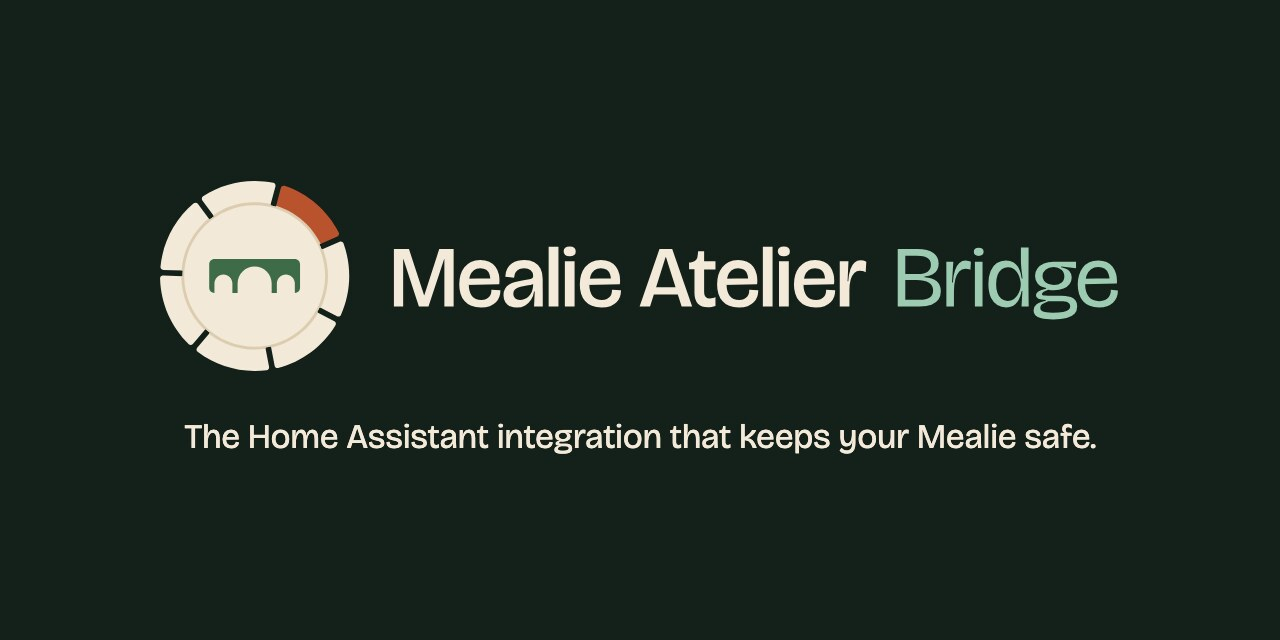
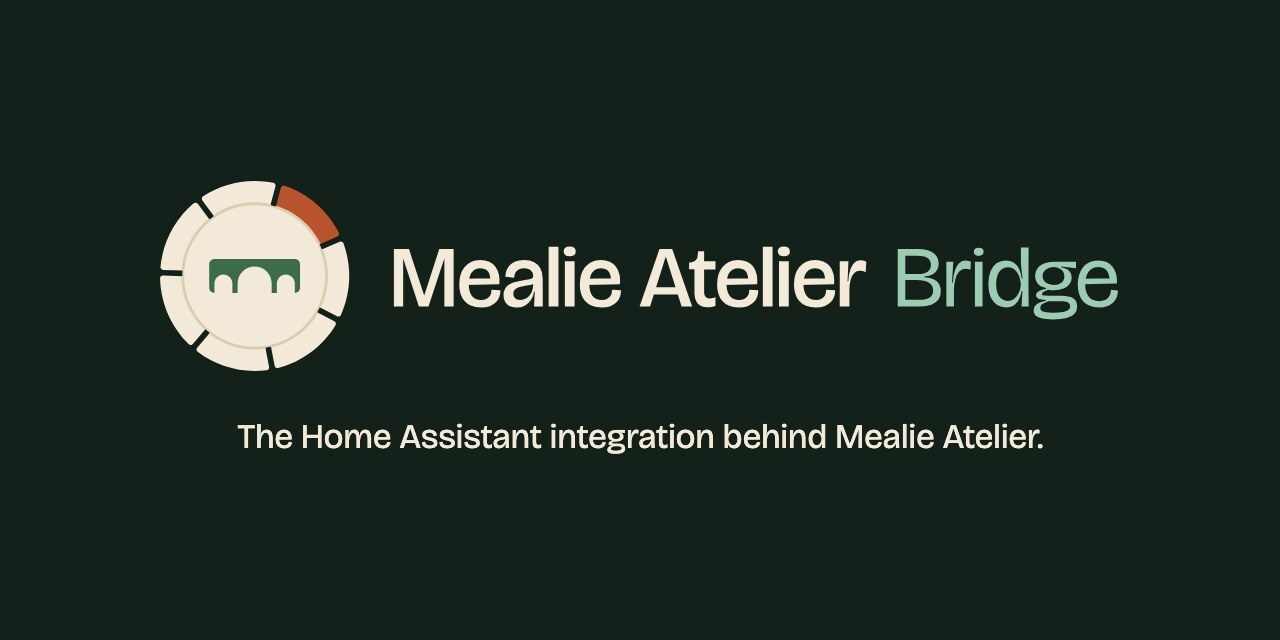
Fix brand docs paths and make the Chrome path overridable
Detect Chrome via CHROME, the macOS app, then google-chrome or chromium on PATH,
and fail early with a clear message. Use published file names in the README,
point the generated manifest at README.md, correct stale comments, and use the
shared Bridge tagline in the social preview.

Changed region(s): [[0.125, 0.6562, 0.8438, 0.7188]]

diff --git a/brand/source/files.py b/brand/source/files.py
@@ -113,7 +113,7 @@ for name in sorted(os.listdir(os.path.join(OUT, "svg"))):
 lines = [
     "# Week Dial · files",
     "",
-    "Generated by `make.sh` (do not edit by hand; rebuild instead). Colours, clear space and rules: `../BRAND.md`.",
+    "Generated by `make.sh` (do not edit by hand; rebuild instead). Colours, clear space and rules: `../README.md`.",
     "Family prefixes: none = Mealie Atelier main mark, `cards-`, `bridge-`, `webapp-`. For the Home Assistant",
     "brands repository, copy a family's eight brand files into the domain folder and drop the prefix.",
     "",

diff --git a/brand/README.md b/brand/README.md
@@ -50,23 +50,23 @@ SVG files are in `svg/`, PNG and ICO files in `png/`.
 | GitHub org avatar | `mealie-atelier-avatar-500.png` (full bleed, survives the circular crop) |
 | Repository social preview | `social/mealie-atelier-social-preview.png`, `social/mealie-atelier-cards-social-preview.png`, `social/mealie-atelier-bridge-social-preview.png` (and `.jpg`) |
 | One colour (print, engraving, embossing), 180 px and up | `mealie-atelier-mark-mono.svg` (with today's accent line) |
-| One colour below 180 px | `mealie-atelier-mark-mono-small.svg`; at exactly 32 or 48 px the pixel masters `*-mark-mono-32.svg` / `*-mark-mono-48.svg` where a family has them (Cards, Bridge, web app); at 16 px and for the Safari pinned tab `mealie-atelier-mark-mono-16.svg` |
+| One colour below 180 px | `mealie-atelier-mark-mono-small.svg`; at exactly 32 or 48 px the pixel masters `mealie-atelier-<family>-mark-mono-32.svg` / `-mark-mono-48.svg` where a family has them (Cards, Bridge, web app); at 16 px and for the Safari pinned tab `mealie-atelier-mark-mono-16.svg` |
 | Wordmark lockup | `mealie-atelier-lockup-dark.svg` (on Night), `mealie-atelier-lockup-light.svg` (on Oat), `mealie-atelier-lockup-dark-transparent.svg` (dark grounds), `mealie-atelier-lockup-light-transparent.svg` (light grounds) |
 
 The mono masters use the solid style: one solid disc, the seven sections separated by notch cuts, the
-glyph knocked out. From 180 px up (`*-mono.svg`) today carries one subtle accent: a thin knocked-out line,
+glyph knocked out. From 180 px up (`mealie-atelier-mark-mono.svg`) today carries one subtle accent: a thin knocked-out line,
 exactly as wide as a notch, between today's section and the well, so today reads as its own solid block.
 Below 180 px there is no accent at all; a cut that thin would blur into a crack or read as a bite. The
-small master (`*-mono-small.svg`) widens the notch slightly so it stays a whole pixel at 32 px, and the
+small master (`mealie-atelier-mark-mono-small.svg`) widens the notch slightly so it stays a whole pixel at 32 px, and the
 16 px master drops the notches and keeps only the disc with the glyph knocked out.
 
 Small sizes are drawn on the pixel grid where scaling would blur:
 
 - Bridge at 16 and 32 px (colour, mono, favicons, ico): one full-width deck bar over one wide stepped
   arch between two solid piers. Three arches read as a comb at 32 px and a single arch in a block as a
-  tunnel at 16 px. From 48 px the three-arch viaduct returns (`bridge-48.svg`, `bridge-mono-48.svg` with
-  whole-pixel piers, `bridge.svg` above).
-- Cards and web app at 32 and 48 px (`*-32.svg`, `*-48.svg`, `*-mono-32.svg`, `*-mono-48.svg`): card gaps
+  tunnel at 16 px. From 48 px the three-arch viaduct returns (`mealie-atelier-bridge-mark-48.svg`,
+  `mealie-atelier-bridge-mark-mono-48.svg` with whole-pixel piers, `mealie-atelier-bridge-mark.svg` above).
+- Cards and web app at 32 and 48 px (`mealie-atelier-<family>-mark-32.svg`, `-mark-48.svg`, `-mark-mono-32.svg`, `-mark-mono-48.svg`): card gaps
   and window frames on whole pixels, so they stay crisp instead of a grey smear.
 
 ## Clear space
@@ -81,12 +81,12 @@ Small sizes are drawn on the pixel grid where scaling would blur:
 
 | Version | Minimum |
 |---|---|
-| Colour tile or plate (`mark.svg`, `mark-transparent*.svg`) | 32 px (below that use the 16 px master) |
-| 16 px colour master (`mark-16.svg`, `favicon.svg`) | 16 px, made for 16 to 31 px |
-| Pixel tiles (`*-32.svg`, `*-48.svg`) | exactly 32 and 48 px; from 49 px use the full master |
-| Mono with accent (`mark-mono.svg`) | 180 px |
-| Mono small (`mark-mono-small.svg`) | 32 px, made for 32 to 179 px (pixel masters at exactly 32 and 48 px where they exist) |
-| Mono 16 px (`mark-mono-16.svg`) | 16 px, made for 16 to 31 px |
+| Colour tile or plate (`mealie-atelier-mark.svg`, `mealie-atelier-mark-transparent.svg`, `mealie-atelier-mark-light-transparent.svg`) | 32 px (below that use the 16 px master) |
+| 16 px colour master (`mealie-atelier-mark-16.svg`, `mealie-atelier-favicon.svg`) | 16 px, made for 16 to 31 px |
+| Pixel tiles (`mealie-atelier-<family>-mark-32.svg`, `-mark-48.svg`) | exactly 32 and 48 px; from 49 px use the full master |
+| Mono with accent (`mealie-atelier-mark-mono.svg`) | 180 px |
+| Mono small (`mealie-atelier-mark-mono-small.svg`) | 32 px, made for 32 to 179 px (pixel masters at exactly 32 and 48 px where they exist) |
+| Mono 16 px (`mealie-atelier-mark-mono-16.svg`) | 16 px, made for 16 to 31 px |
 | Lockup | 24 px plate height on screen, 10 mm in print |
 
 ## Do
@@ -101,9 +101,9 @@ Small sizes are drawn on the pixel grid where scaling would blur:
 - Don't recolour parts of the mark, swap Herb and Mint, or put a Herb glyph on the Night plate.
 - Don't rotate the plate, move today to another section or add a second accent section.
 - Don't add strokes, shadows, gradients, outlines or a needle; the mark is flat fills only.
-- Don't place the cream plate (`mark-transparent.svg`) on white or cream; use the Night plate there.
+- Don't place the cream plate (`mealie-atelier-mark-transparent.svg`) on white or cream; use the Night plate there.
 - Don't scale the full master below 32 px; use the 16 px master. Don't use the mono master with the
-  accent line below 180 px; use `*-mono-small.svg` or the pixel masters.
+  accent line below 180 px; use `mealie-atelier-mark-mono-small.svg` or the pixel masters.
 - Don't re-set the wordmark in another font or weight; it is Bricolage Grotesque (SIL OFL 1.1), outlined.
 - Don't crop the maskable or avatar files to anything smaller than the 80 % safe circle.
 
@@ -111,13 +111,16 @@ Small sizes are drawn on the pixel grid where scaling would blur:
 
 Everything under `svg/`, `png/` and `social/` is generated from `source/`. Requirements: macOS or Linux with
 Python 3.14 and `uv`, the Python packages `skia-pathops`, `fonttools` and `uharfbuzz` (installed into a local
-`source/venv` by `make.sh`), Google Chrome (headless renders) and ImageMagick 7 (`magick`).
+`source/venv` by `make.sh`), Google Chrome or Chromium (headless renders) and ImageMagick 7 (`magick`). The
+scripts look for the browser in this order: the `CHROME` environment variable, the macOS Google Chrome app,
+then `google-chrome`, `chromium` or `chromium-browser` on `PATH`. If none is found they stop with a message.
+Example: `CHROME=/usr/bin/chromium ./make.sh`.
 
 ```sh
 cd brand/source
 ./make.sh                          # masters, checks, renders, rollout set in source/out/
 venv/bin/python publish.py         # copy into ../svg and ../png under the mealie-atelier- names
-./social.sh                        # 1280 x 640 social previews into ../social
+./social.sh                        # 1280 × 640 social previews into ../social
 ```
 
 `check.py` and `check_png.py` fail the build if glyph and plate colours are mixed or a small size renders wrongly.
